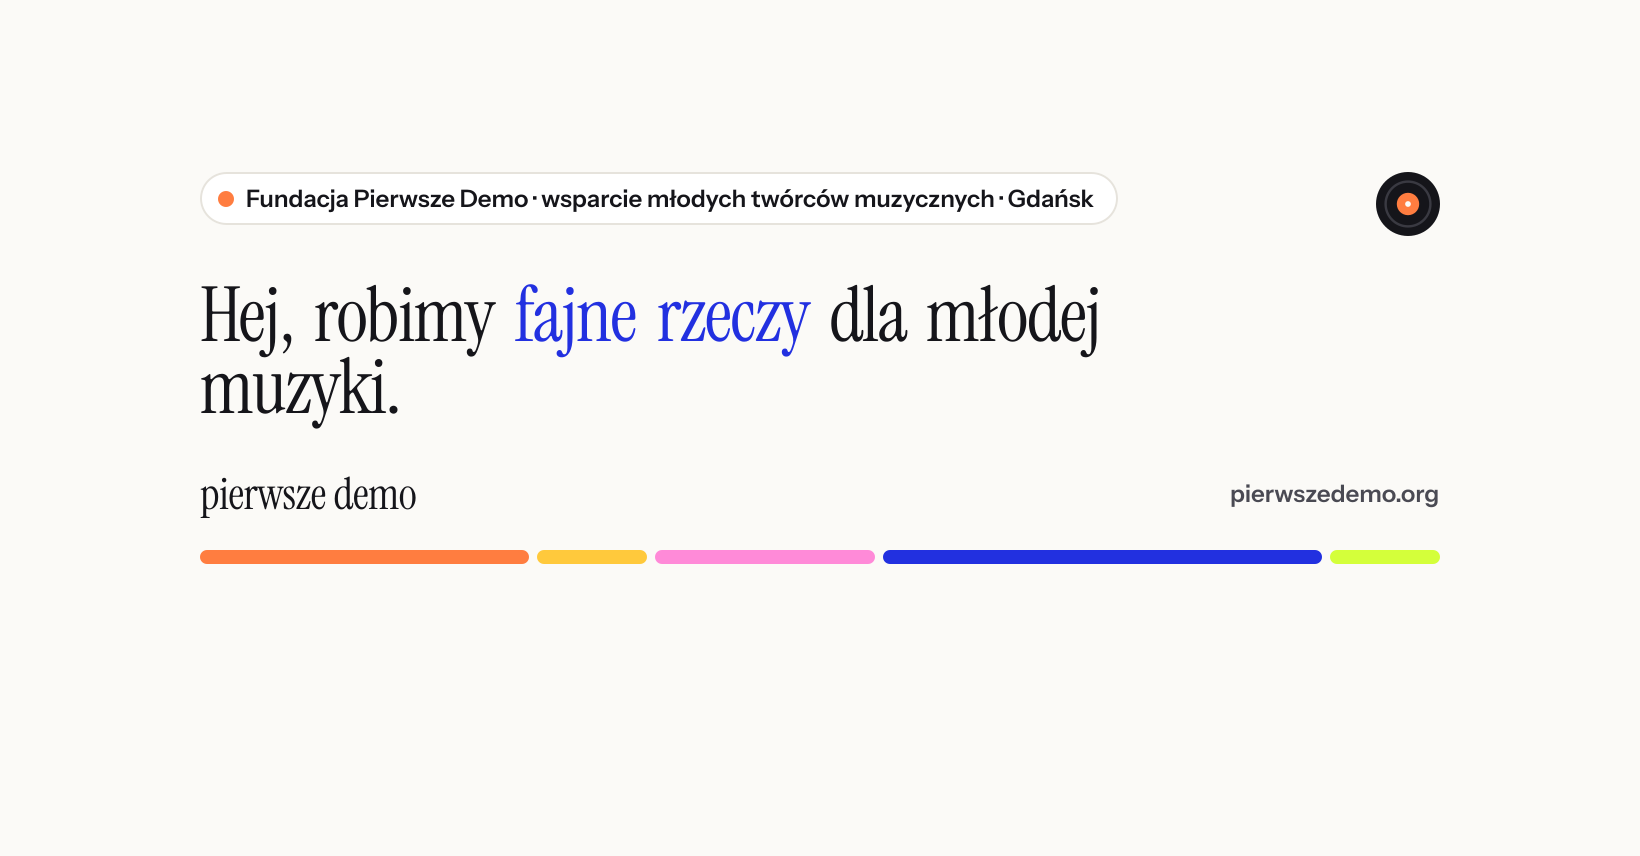
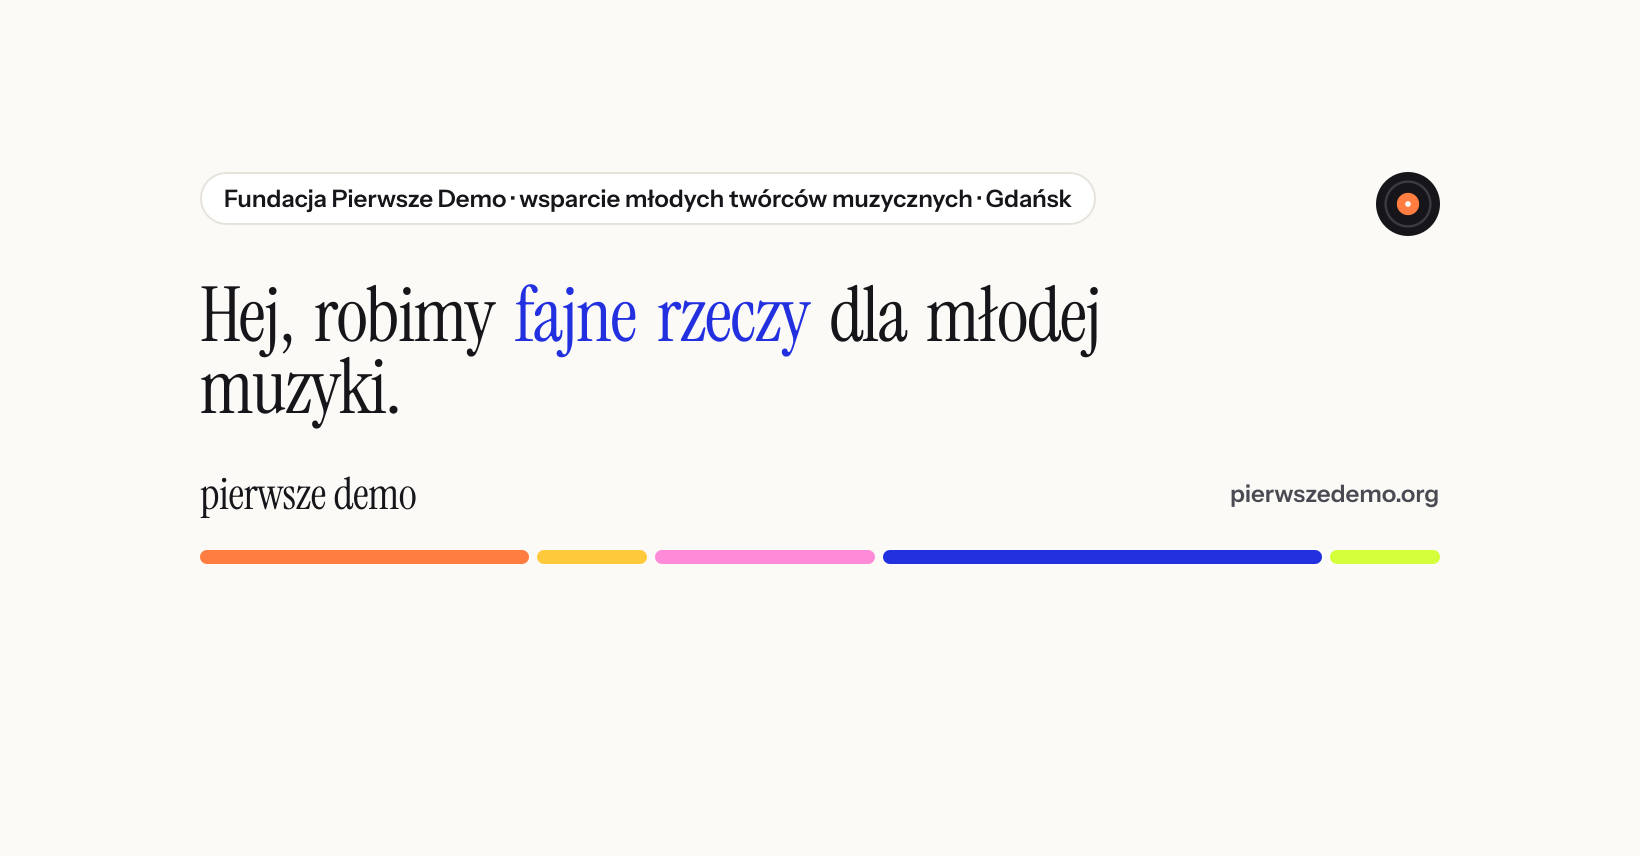
feat(design): pigułki nad tytułami bez kolorowych kropek
Kropka zniknęła z pigułek na stronie głównej, w nagłówkach podstron,
na 404 i na kartach OG (okładka FB przegenerowana).

Changed region(s): [[0.1244, 0.2126, 0.6841, 0.243]]

diff --git a/src/og.ts b/src/og.ts
@@ -185,7 +185,7 @@ export async function renderOgCard({
 				},
 				[
 					el("div", { display: "flex", justifyContent: "space-between", alignItems: "flex-start", gap: 32 }, [
-						pill(eyebrow, "#ffffff", PALETTE.orange),
+						pill(eyebrow, "#ffffff"),
 						recordMark(64),
 					]),
 					el(
